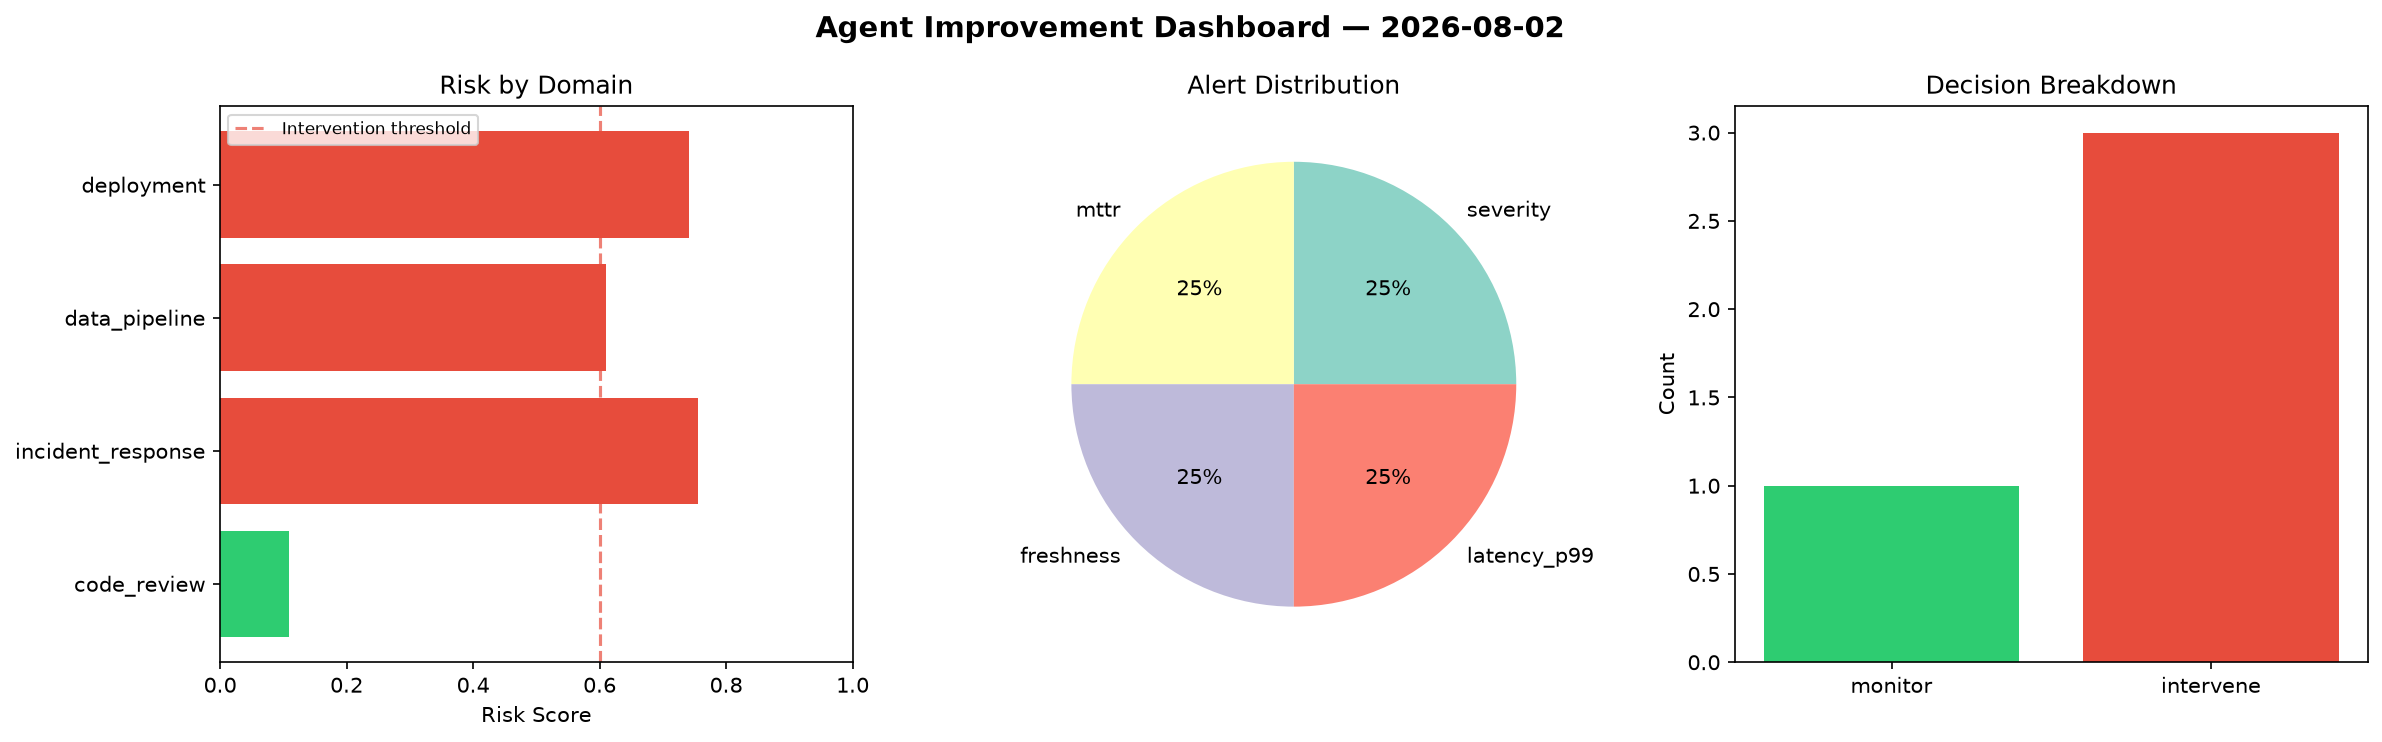
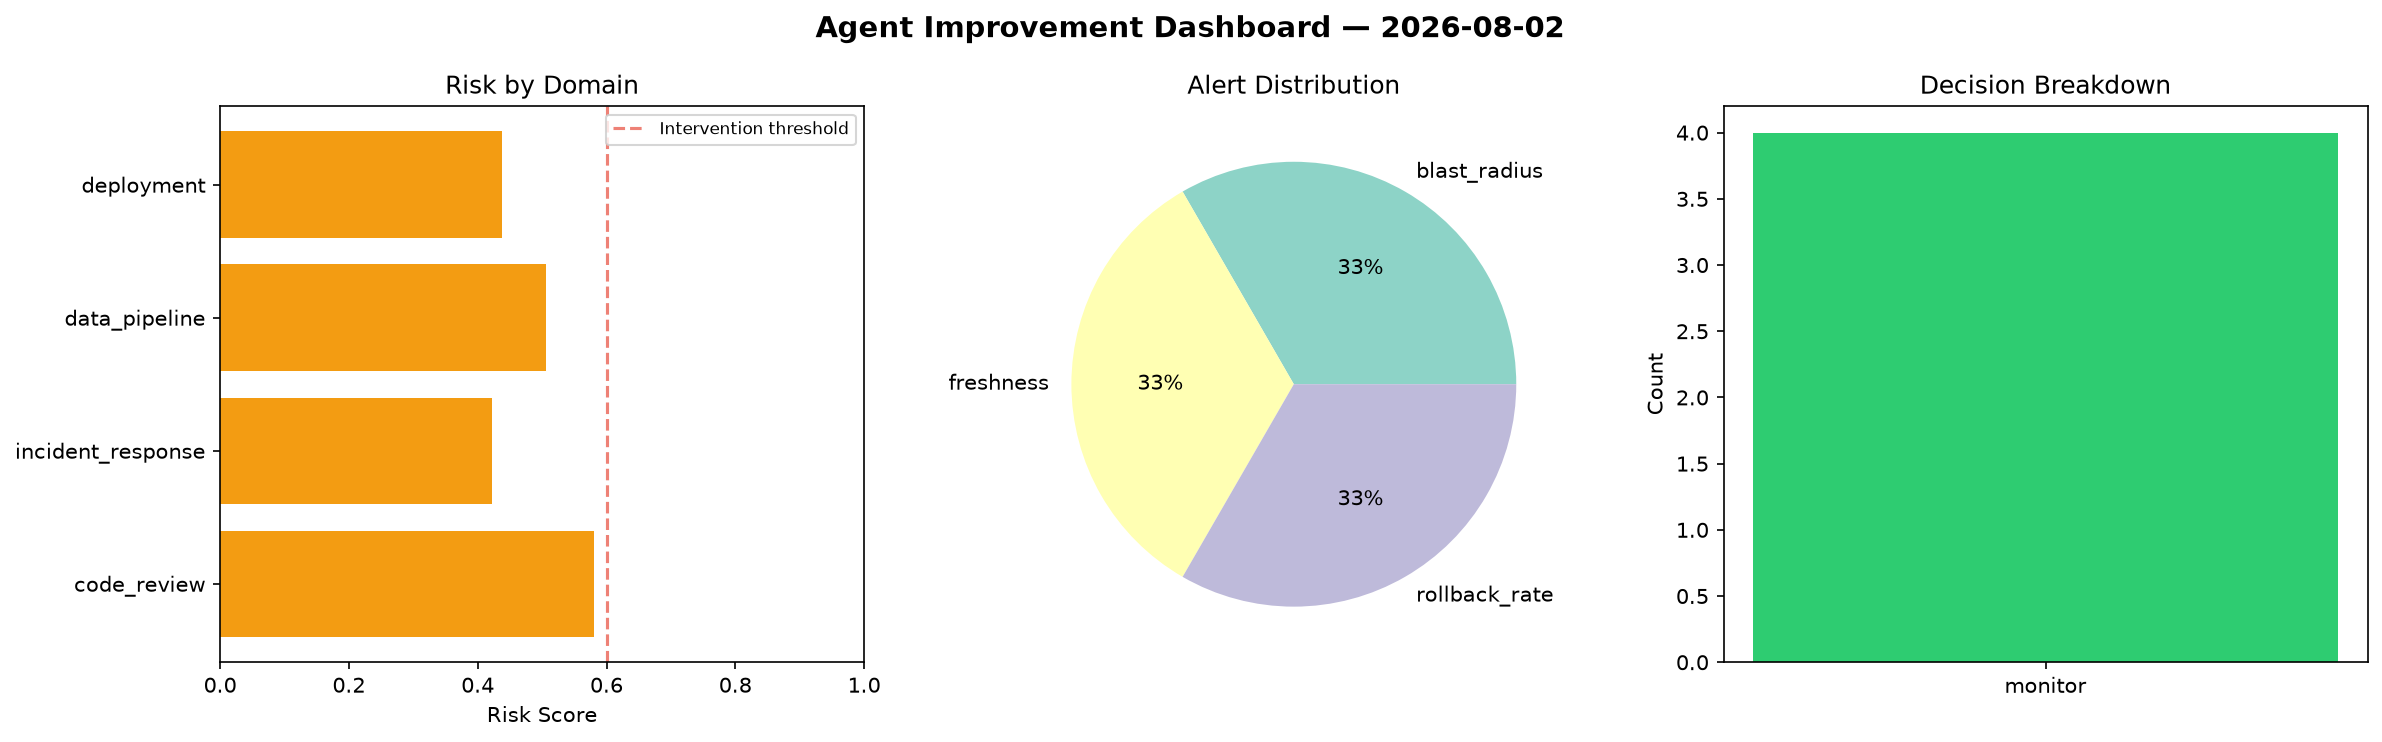
agent-improvement: daily cycle 2026-08-02T10:07

diff --git a/logs/2026-08-02.md b/logs/2026-08-02.md
@@ -1,6 +1,6 @@
 # Agent Improvement Report — 2026-08-02
 
-**Cycle ID:** `6b89c74b` | **Avg Risk:** 0.5536 | **Interventions:** 3/4
+**Cycle ID:** `3ac31f5a` | **Avg Risk:** 0.4865 | **Interventions:** 0/4
 
 ![Dashboard](2026-08-02_dashboard.png)
 
@@ -10,18 +10,18 @@
 
 | Domain | Risk Score | Decision | Alerts |
 |--------|-----------|----------|--------|
-| code_review | 0.1096 | monitor | none |
-| incident_response | 0.755 | intervene | severity, mttr |
-| data_pipeline | 0.6094 | intervene | freshness |
-| deployment | 0.7405 | intervene | latency_p99 |
+| code_review | 0.5806 | monitor | none |
+| incident_response | 0.4215 | monitor | blast_radius |
+| data_pipeline | 0.5059 | monitor | freshness |
+| deployment | 0.4382 | monitor | rollback_rate |
 
 ## Delta vs Yesterday
 
 | Domain | Today | Yesterday | Change |
 |--------|-------|-----------|--------|
-| code_review | 0.1096 | 0.3174 | 📉 -65.5% |
-| incident_response | 0.755 | 0.305 | 📈 147.5% |
-| data_pipeline | 0.6094 | 0.3808 | 📈 60.0% |
-| deployment | 0.7405 | 0.7564 | 📉 -2.1% |
+| code_review | 0.5806 | 0.3174 | 📈 82.9% |
+| incident_response | 0.4215 | 0.305 | 📈 38.2% |
+| data_pipeline | 0.5059 | 0.3808 | 📈 32.9% |
+| deployment | 0.4382 | 0.7564 | 📉 -42.1% |
 
-**Refinement:** `{'adjustment': 'tighten_thresholds', 'trend': 'degrading', 'window': 4}`
+**Refinement:** `{'adjustment': 'maintain', 'trend': 'improving', 'window': 4}`
